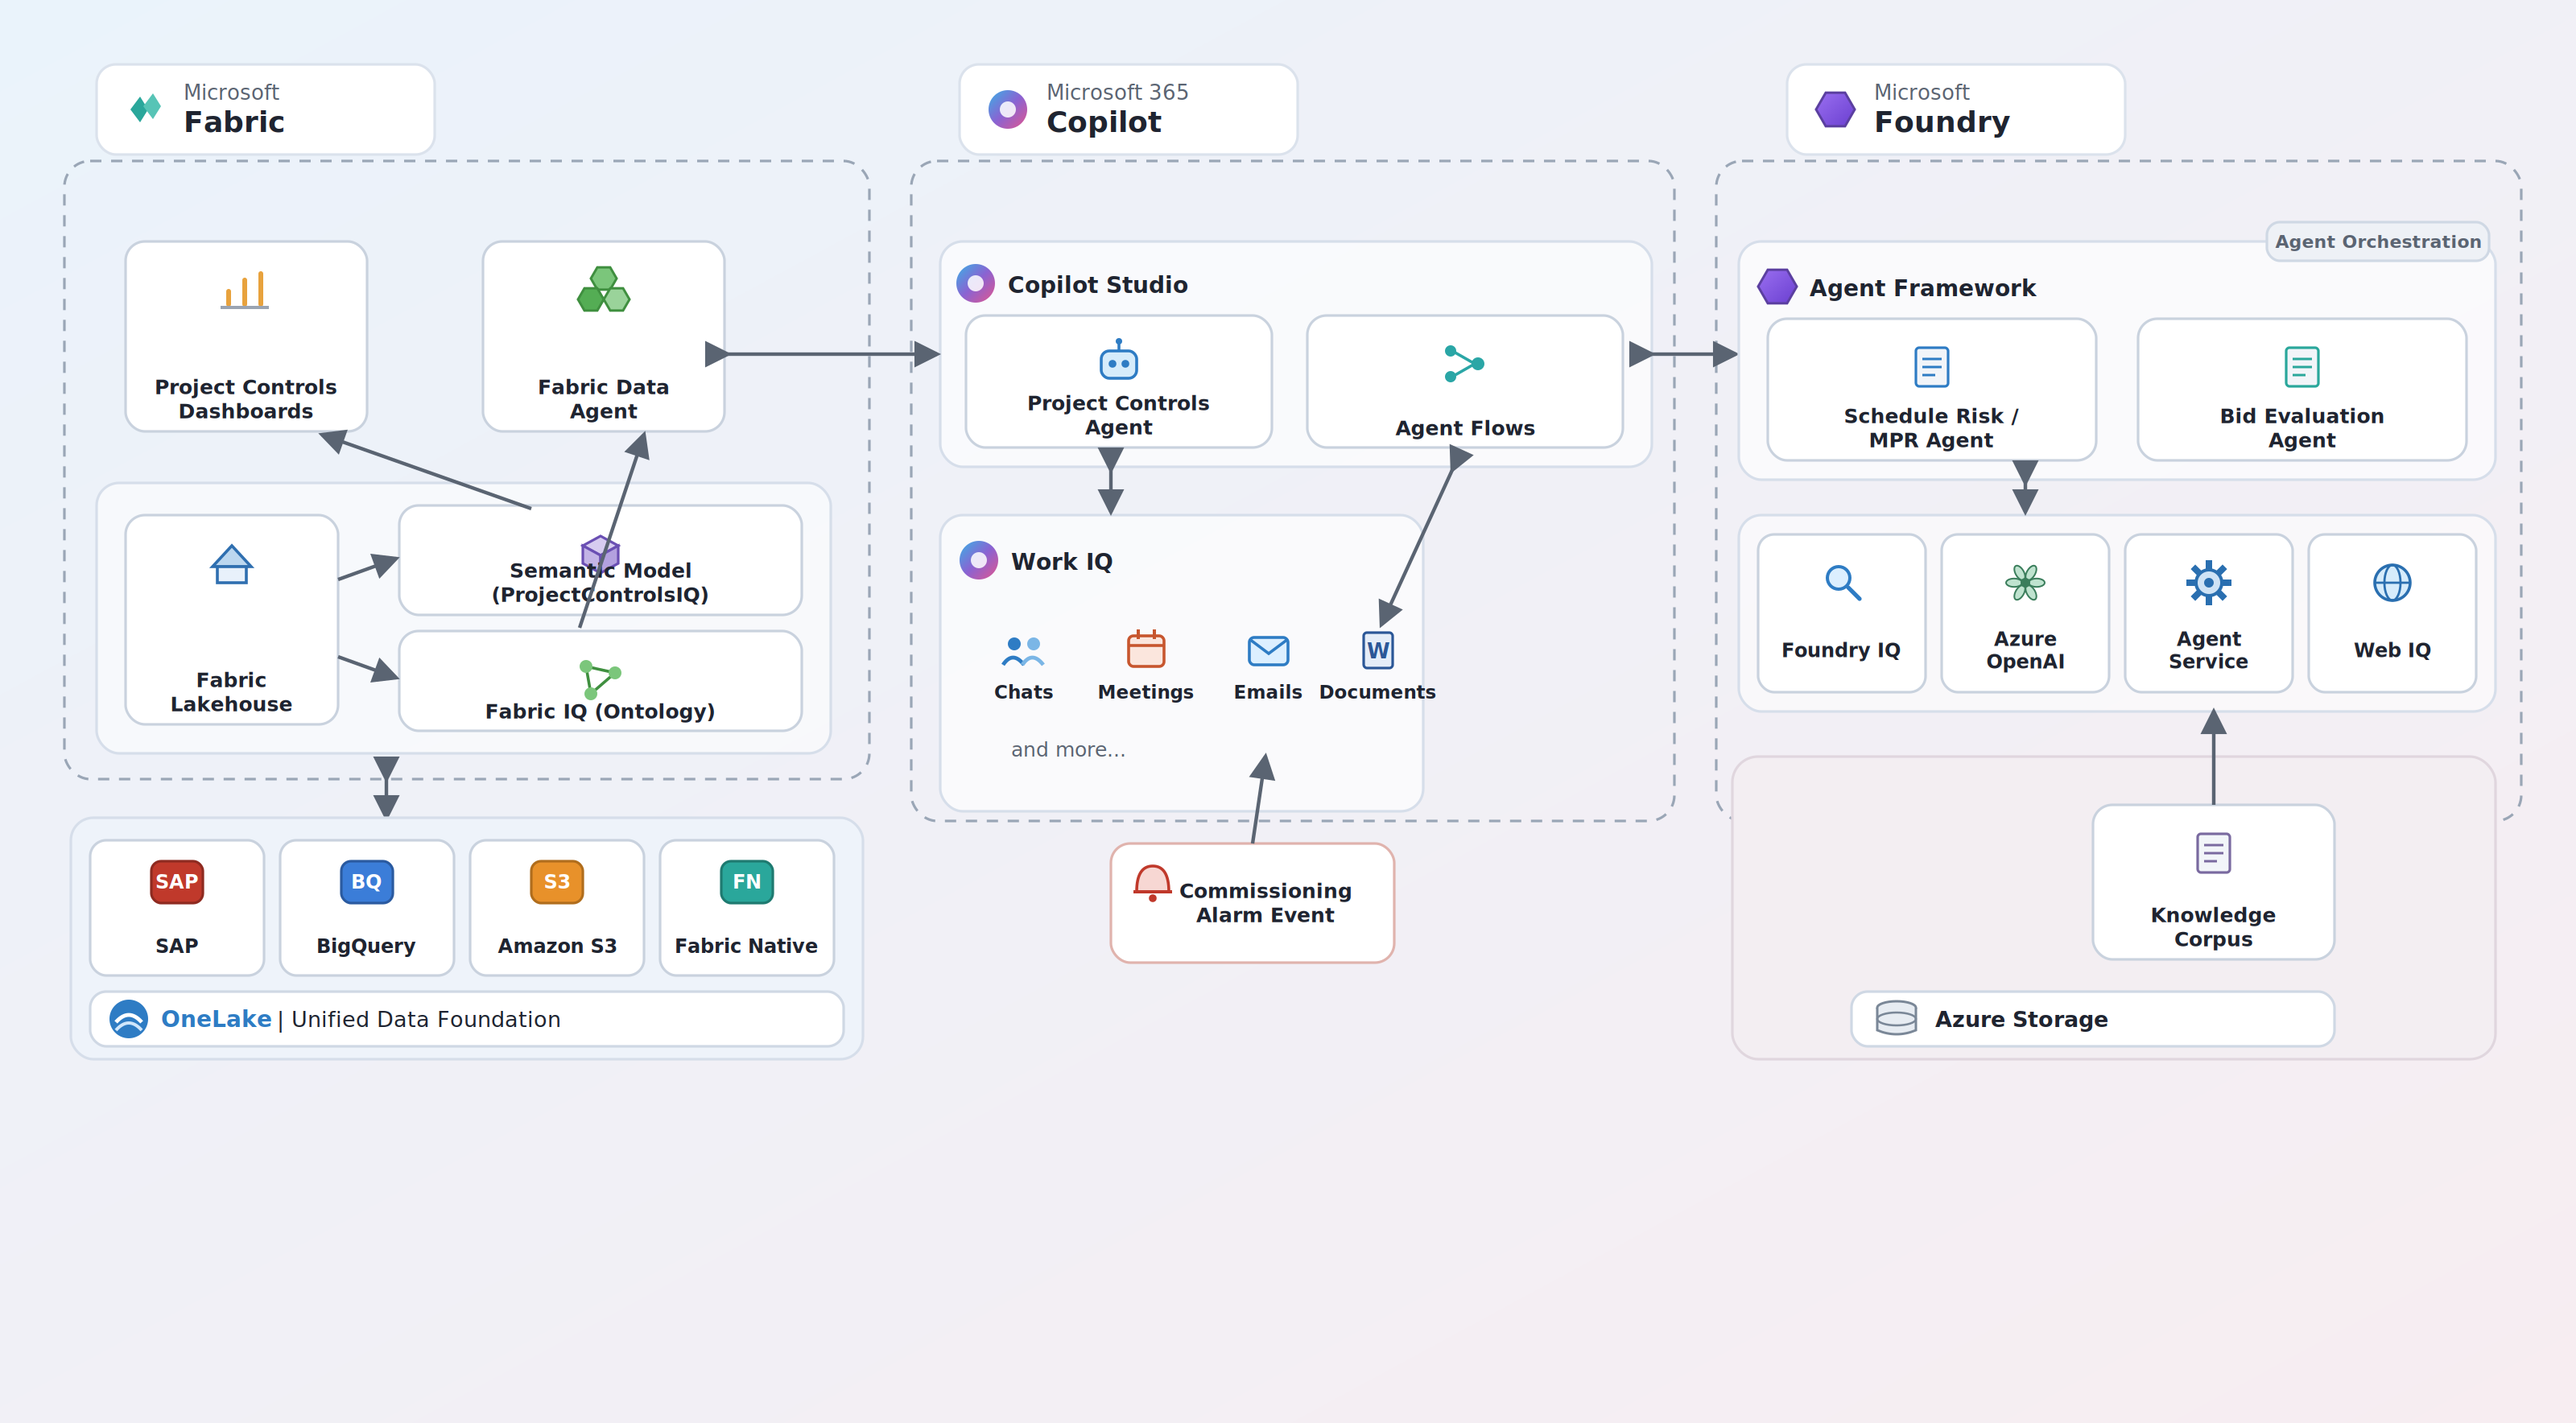
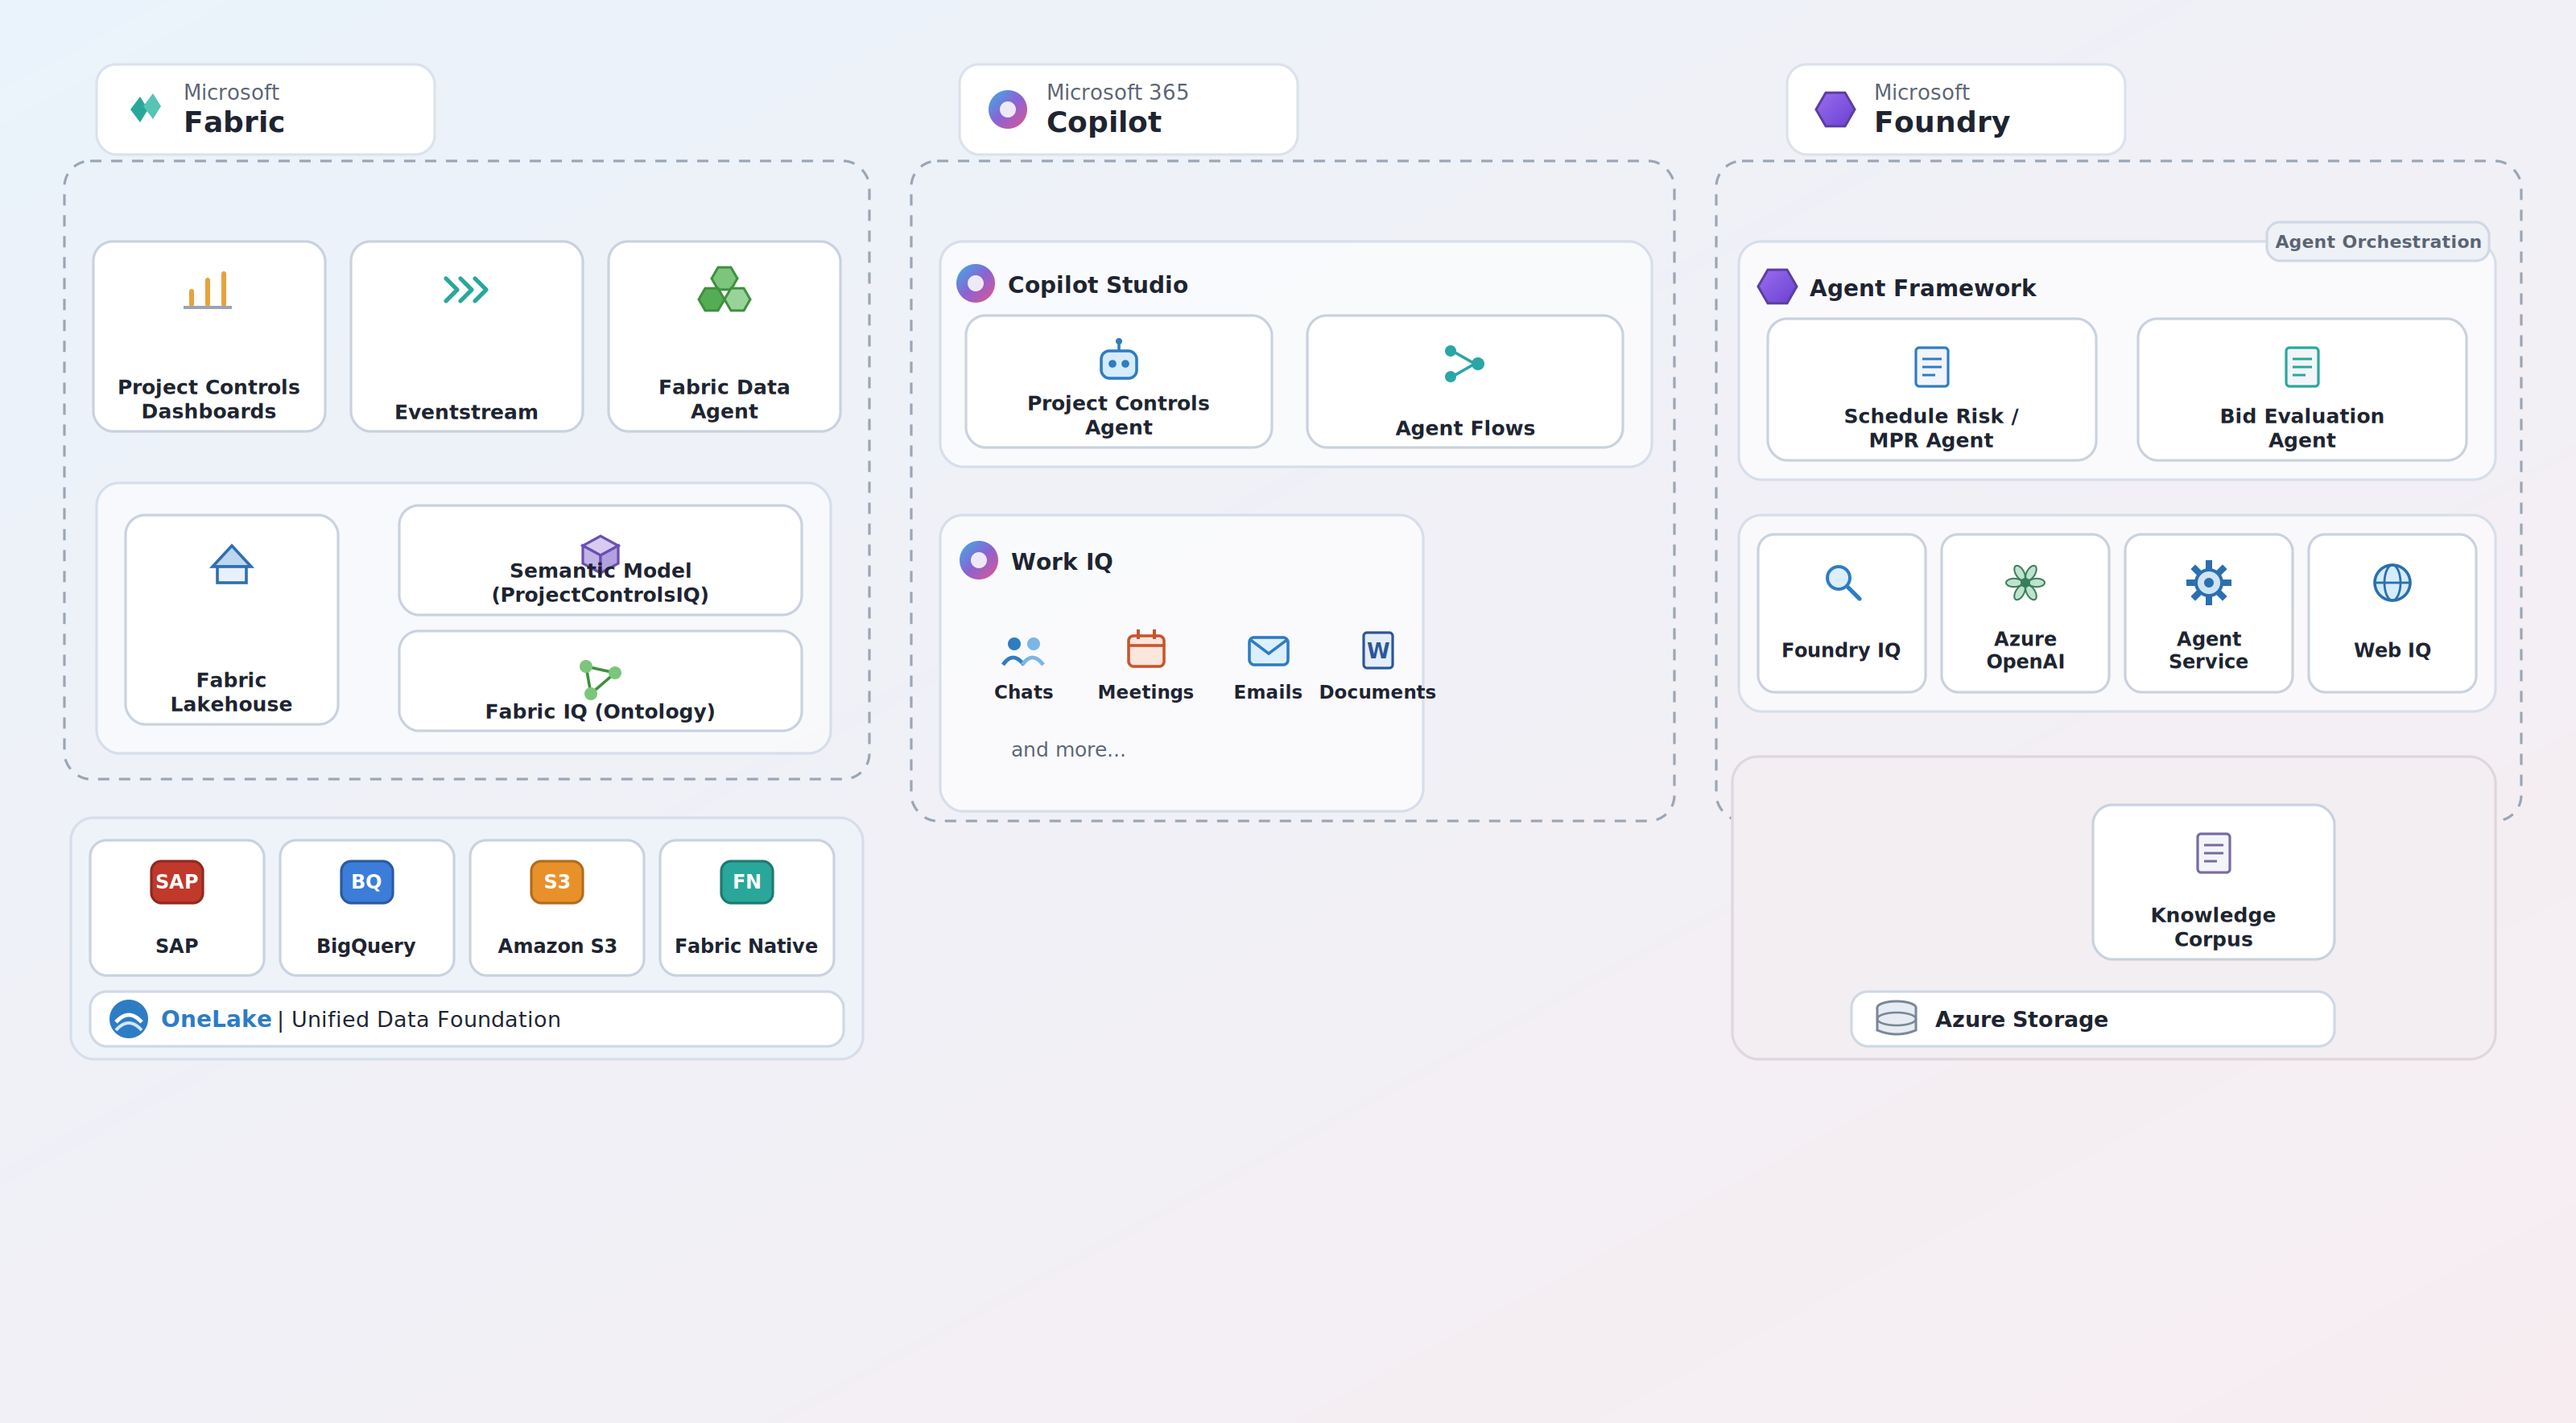
Add Eventstream to Fabric section; remove arrows and alarm-event box
- Add Eventstream tile to the Fabric serving row (real-time ingestion)
- Remove all connector arrows for a cleaner layout
- Remove the Commissioning Alarm Event box (that event flows via Eventstream)

diff --git a/docs/diagrams/generate_solution_overview.py b/docs/diagrams/generate_solution_overview.py
@@ -213,6 +213,15 @@ def ic_onelake(cx, cy):
             f'<path d="M{cx-8},{cy+7} q8,-9 16,0" fill="none" stroke="#cfe6fb" stroke-width="2"/>')
 
 
+def ic_stream(cx, cy):  # eventstream
+    t = "#2AA79B"
+    ch = "".join(
+        f'<path d="M{cx-13+o},{cy-7} L{cx-6+o},{cy} L{cx-13+o},{cy+7}" fill="none" '
+        f'stroke="{t}" stroke-width="2.6" stroke-linecap="round" stroke-linejoin="round"/>'
+        for o in (0, 9, 18))
+    return ch
+
+
 def logo_fabric(cx, cy):
     return (f'<polygon points="{cx-9},{cy} {cx-3},{cy-8} {cx+2},{cy} {cx-3},{cy+8}" fill="#2AA79B"/>'
             f'<polygon points="{cx-1},{cy-2} {cx+5},{cy-10} {cx+10},{cy-2} {cx+5},{cy+6}" fill="#57C4B6"/>')
@@ -280,23 +289,17 @@ def tile(x, y, w, h, rows, icon, rx=12, stroke="#c9d2de", size=12.5):
     return "".join(g)
 
 # ================================ FABRIC ======================================
-S.append(tile(78, 150, 150, 118, ["Project Controls", "Dashboards"], ic_chart))
-S.append(tile(300, 150, 150, 118, ["Fabric Data", "Agent"], ic_hex))
+S.append(tile(58, 150, 144, 118, ["Project Controls", "Dashboards"], ic_chart))
+S.append(tile(218, 150, 144, 118, ["Eventstream"], ic_stream))
+S.append(tile(378, 150, 144, 118, ["Fabric Data", "Agent"], ic_hex))
 
 # semantic-layer container
 S.append(rr(60, 300, 456, 168, fill="#ffffff", stroke="#d6deea", opacity=0.55, rx=14))
 S.append(tile(78, 320, 132, 130, ["Fabric", "Lakehouse"], ic_house))
 S.append(tile(248, 314, 250, 68, ["Semantic Model", "(ProjectControlsIQ)"], ic_cube))
 S.append(tile(248, 392, 250, 62, ["Fabric IQ  (Ontology)"], ic_graph))
-# internal arrows
-S.append(arrow(210, 360, 246, 347))
-S.append(arrow(210, 408, 246, 421))
-# up to serving tiles
-S.append(arrow(330, 316, 200, 270))
-S.append(arrow(360, 390, 400, 270))
 
 # data sources + OneLake (below dashed region)
-S.append(arrow(240, 484, 240, 508, double=True))
 S.append(rr(44, 508, 492, 150, fill="#eef3fa", stroke="#d6deea", rx=14))
 ds = [("SAP", "#C0392B", "#8e2a20", "SAP"),
       ("BigQuery", "#3B7DD8", "#2a5aa0", "BQ"),
@@ -332,18 +335,6 @@ for nm, ic, cx in wq:
     S.append(txt(cx, 434, nm, size=11.5, w=600))
 S.append(txt(628, 470, "and more...", size=12.5, w=400, anchor="start", italic=True, fill=GRAY))
 
-# alarm event
-S.append(rr(690, 524, 176, 74, shadow=True, rx=12, stroke="#e0b3ad"))
-S.append(ic_alarm(716, 548))
-S.append(lines(786, 561, ["Commissioning", "Alarm Event"], size=12.5, w=600, gap=15))
-S.append(arrow(778, 524, 786, 470))
-
-# cross-section + intra arrows
-S.append(arrow(452, 220, 582, 220, double=True))
-S.append(arrow(1026, 220, 1078, 220, double=True))
-S.append(arrow(690, 292, 690, 318, double=True))
-S.append(arrow(902, 292, 858, 388, double=True))
-
 # ============================== FOUNDRY =======================================
 # Agent Framework
 S.append(rr(1080, 150, 470, 148, fill="#ffffff", stroke="#d6deea", opacity=0.65, rx=14))
@@ -372,8 +363,6 @@ S.append(tile(1300, 500, 150, 96, ["Knowledge", "Corpus"],
 S.append(rr(1150, 616, 300, 34, fill="#ffffff", stroke="#cfd8e4", rx=10))
 S.append(ic_storage(1178, 633))
 S.append(txt(1202, 638, "Azure Storage", size=13.5, w=600, anchor="start"))
-S.append(arrow(1375, 500, 1375, 442))
-S.append(arrow(1258, 300, 1258, 318, double=True))
 
 S.append("</svg>")
 svg_text = "\n".join(S)
